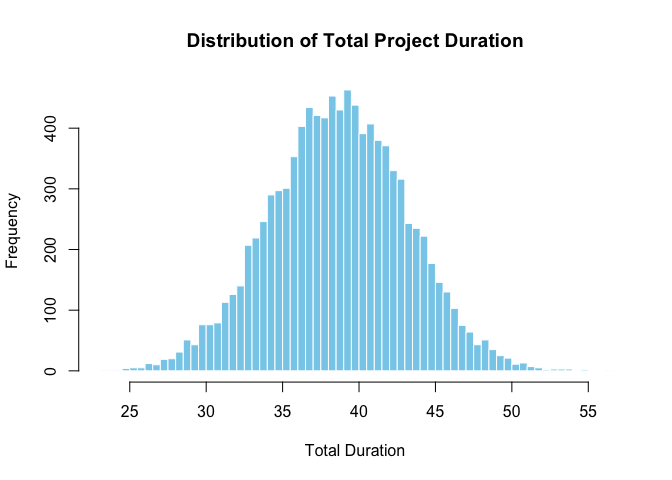
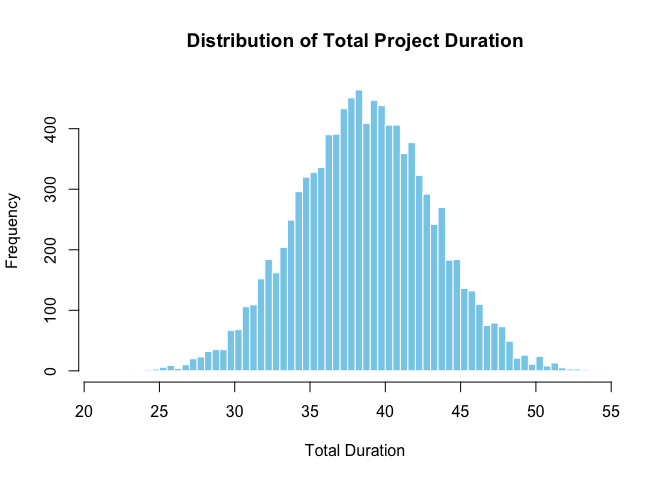
Update README

diff --git a/README.md b/README.md
@@ -45,7 +45,7 @@ simulation, sensitivity analysis, and earned value management.
 
 ## Installation
 
-To install the release verion of PRA in R, use:
+To install the release verion of PRA, use:
 
 ``` r
 install_packages('PRA')
@@ -102,7 +102,7 @@ To calculate the mean of the total duration:
 cat("Mean Total Duration is ", round(results$total_mean, 2))
 ```
 
-Mean Total Duration is 38.65
+Mean Total Duration is 38.66
 
 To calculate the variance of the total duration:
 
@@ -110,7 +110,7 @@ To calculate the variance of the total duration:
 cat("Variance around the Total Duration is ", round(results$total_variance, 2))
 ```
 
-Variance around the Total Duration is 19.69
+Variance around the Total Duration is 19.8
 
 To build a histogram of the total duration:
 
@@ -125,9 +125,9 @@ hist(results$total_distribution,
 
 ## More Resources
 
-Much of this package is based on the book [Data Analysis for Engineering
-and Project Risk Managment](https://doi.org/10.1007/978-3-030-14251-3)
-by Ivan Damnjanovic and Ken Reinschmidt and comes highly recommended.
+This project was inspired by the book [Data Analysis for Engineering and
+Project Risk Managment](https://doi.org/10.1007/978-3-030-14251-3) by
+Ivan Damnjanovic and Ken Reinschmidt and is highly recommended.
 
 ## Code of Conduct
 
